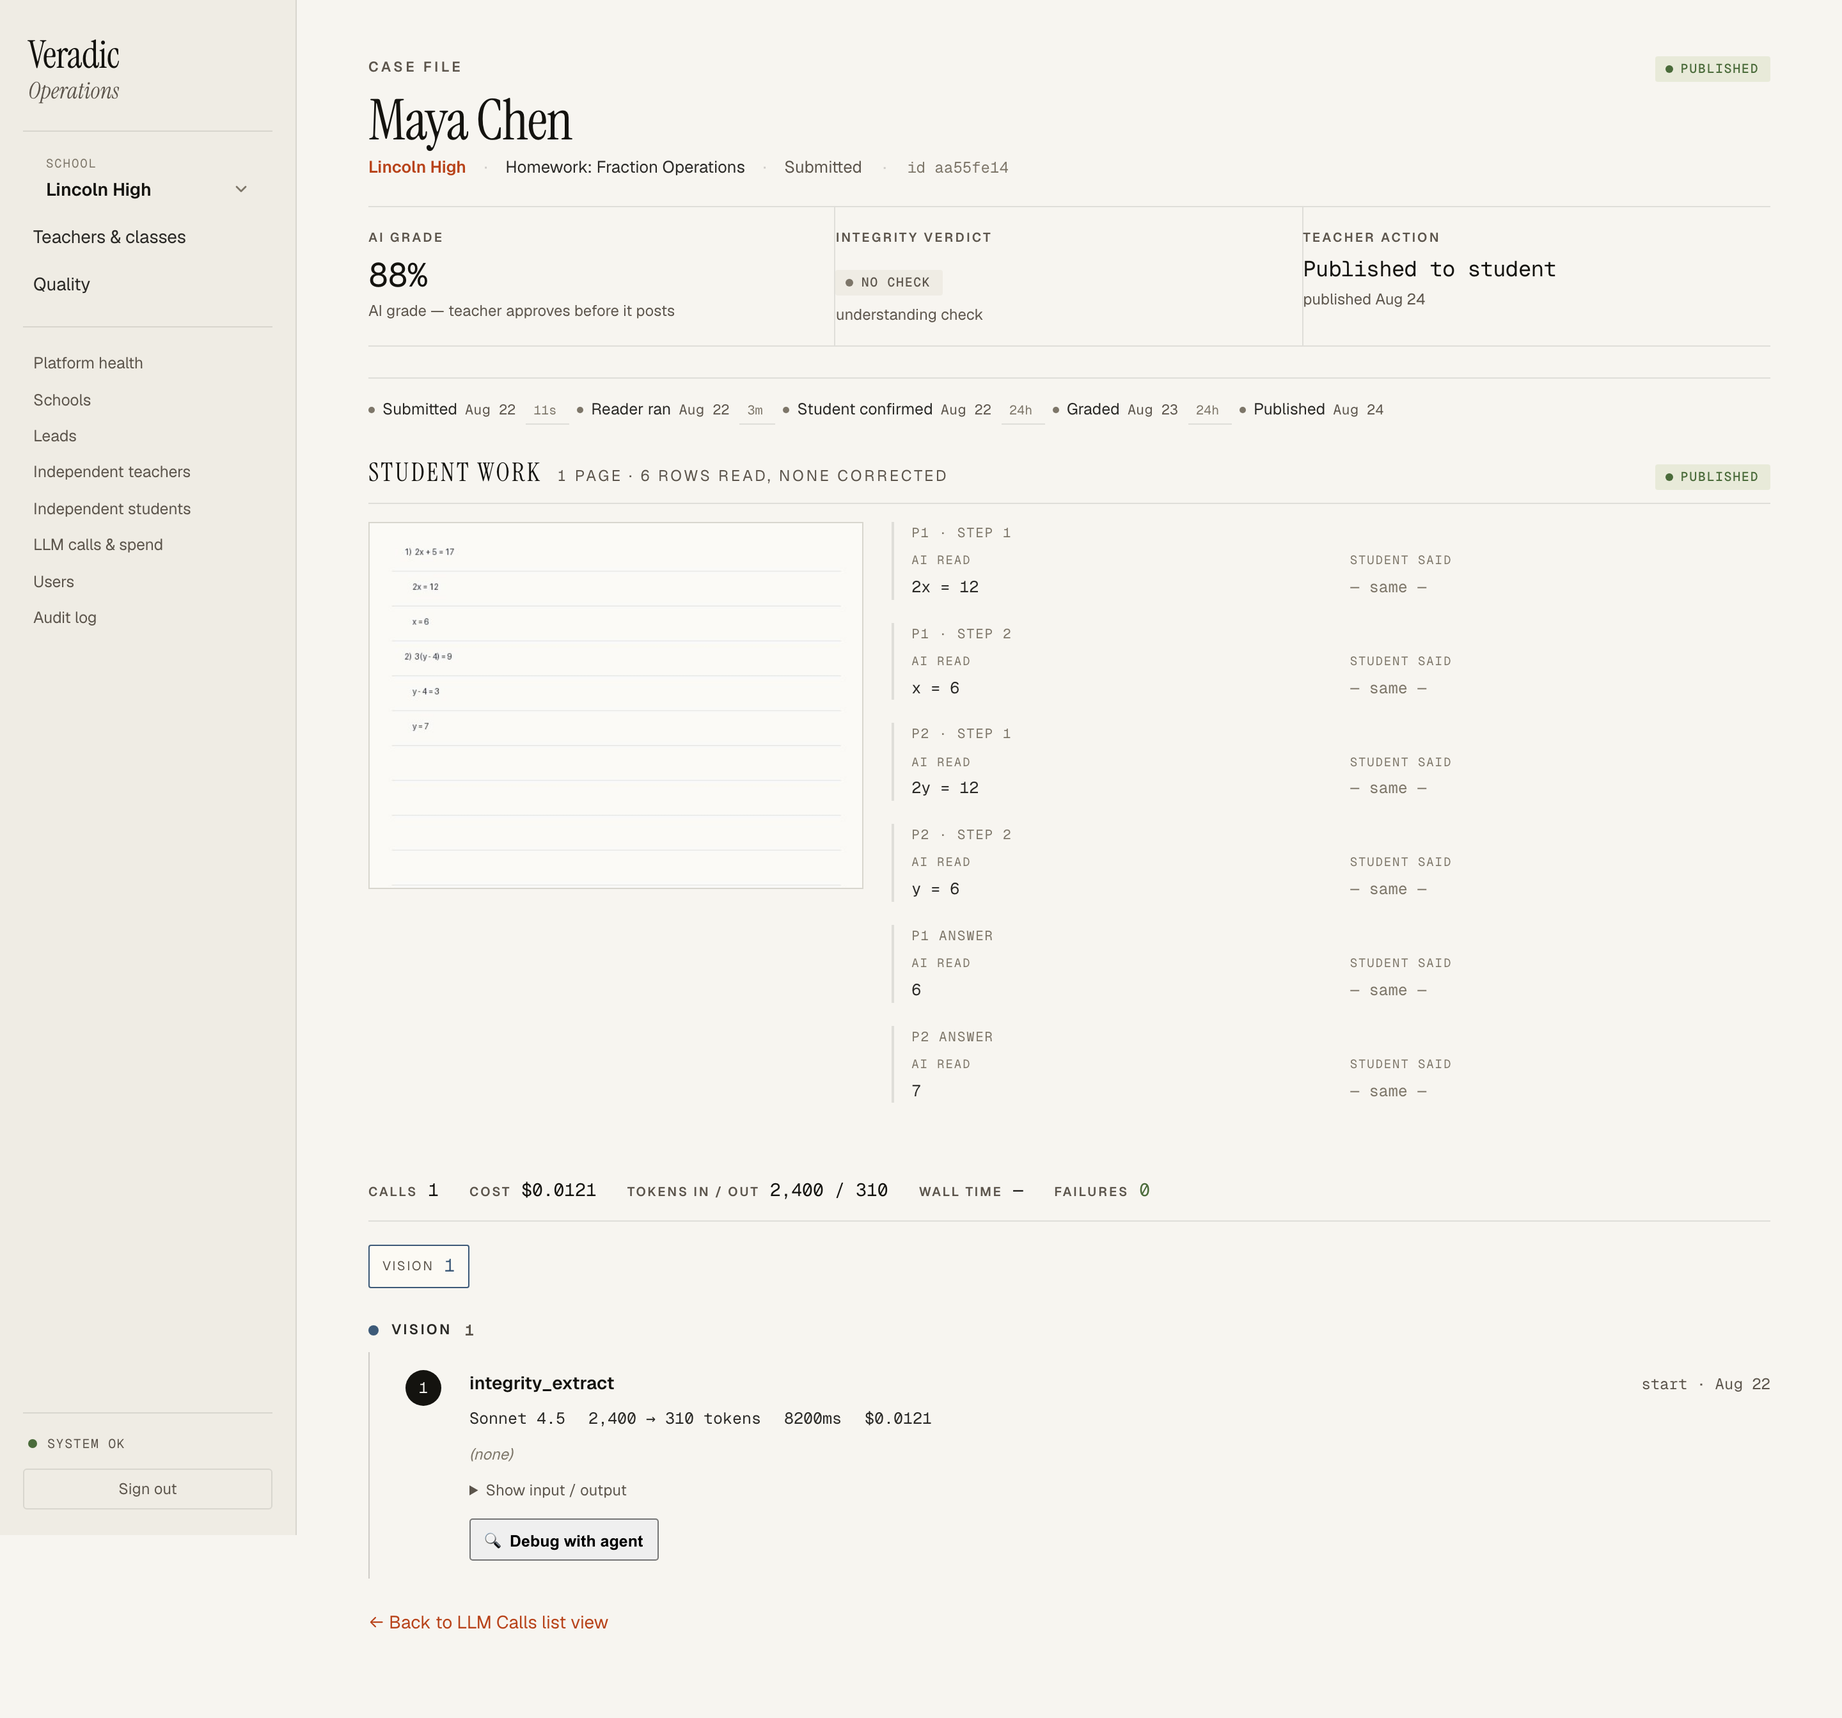
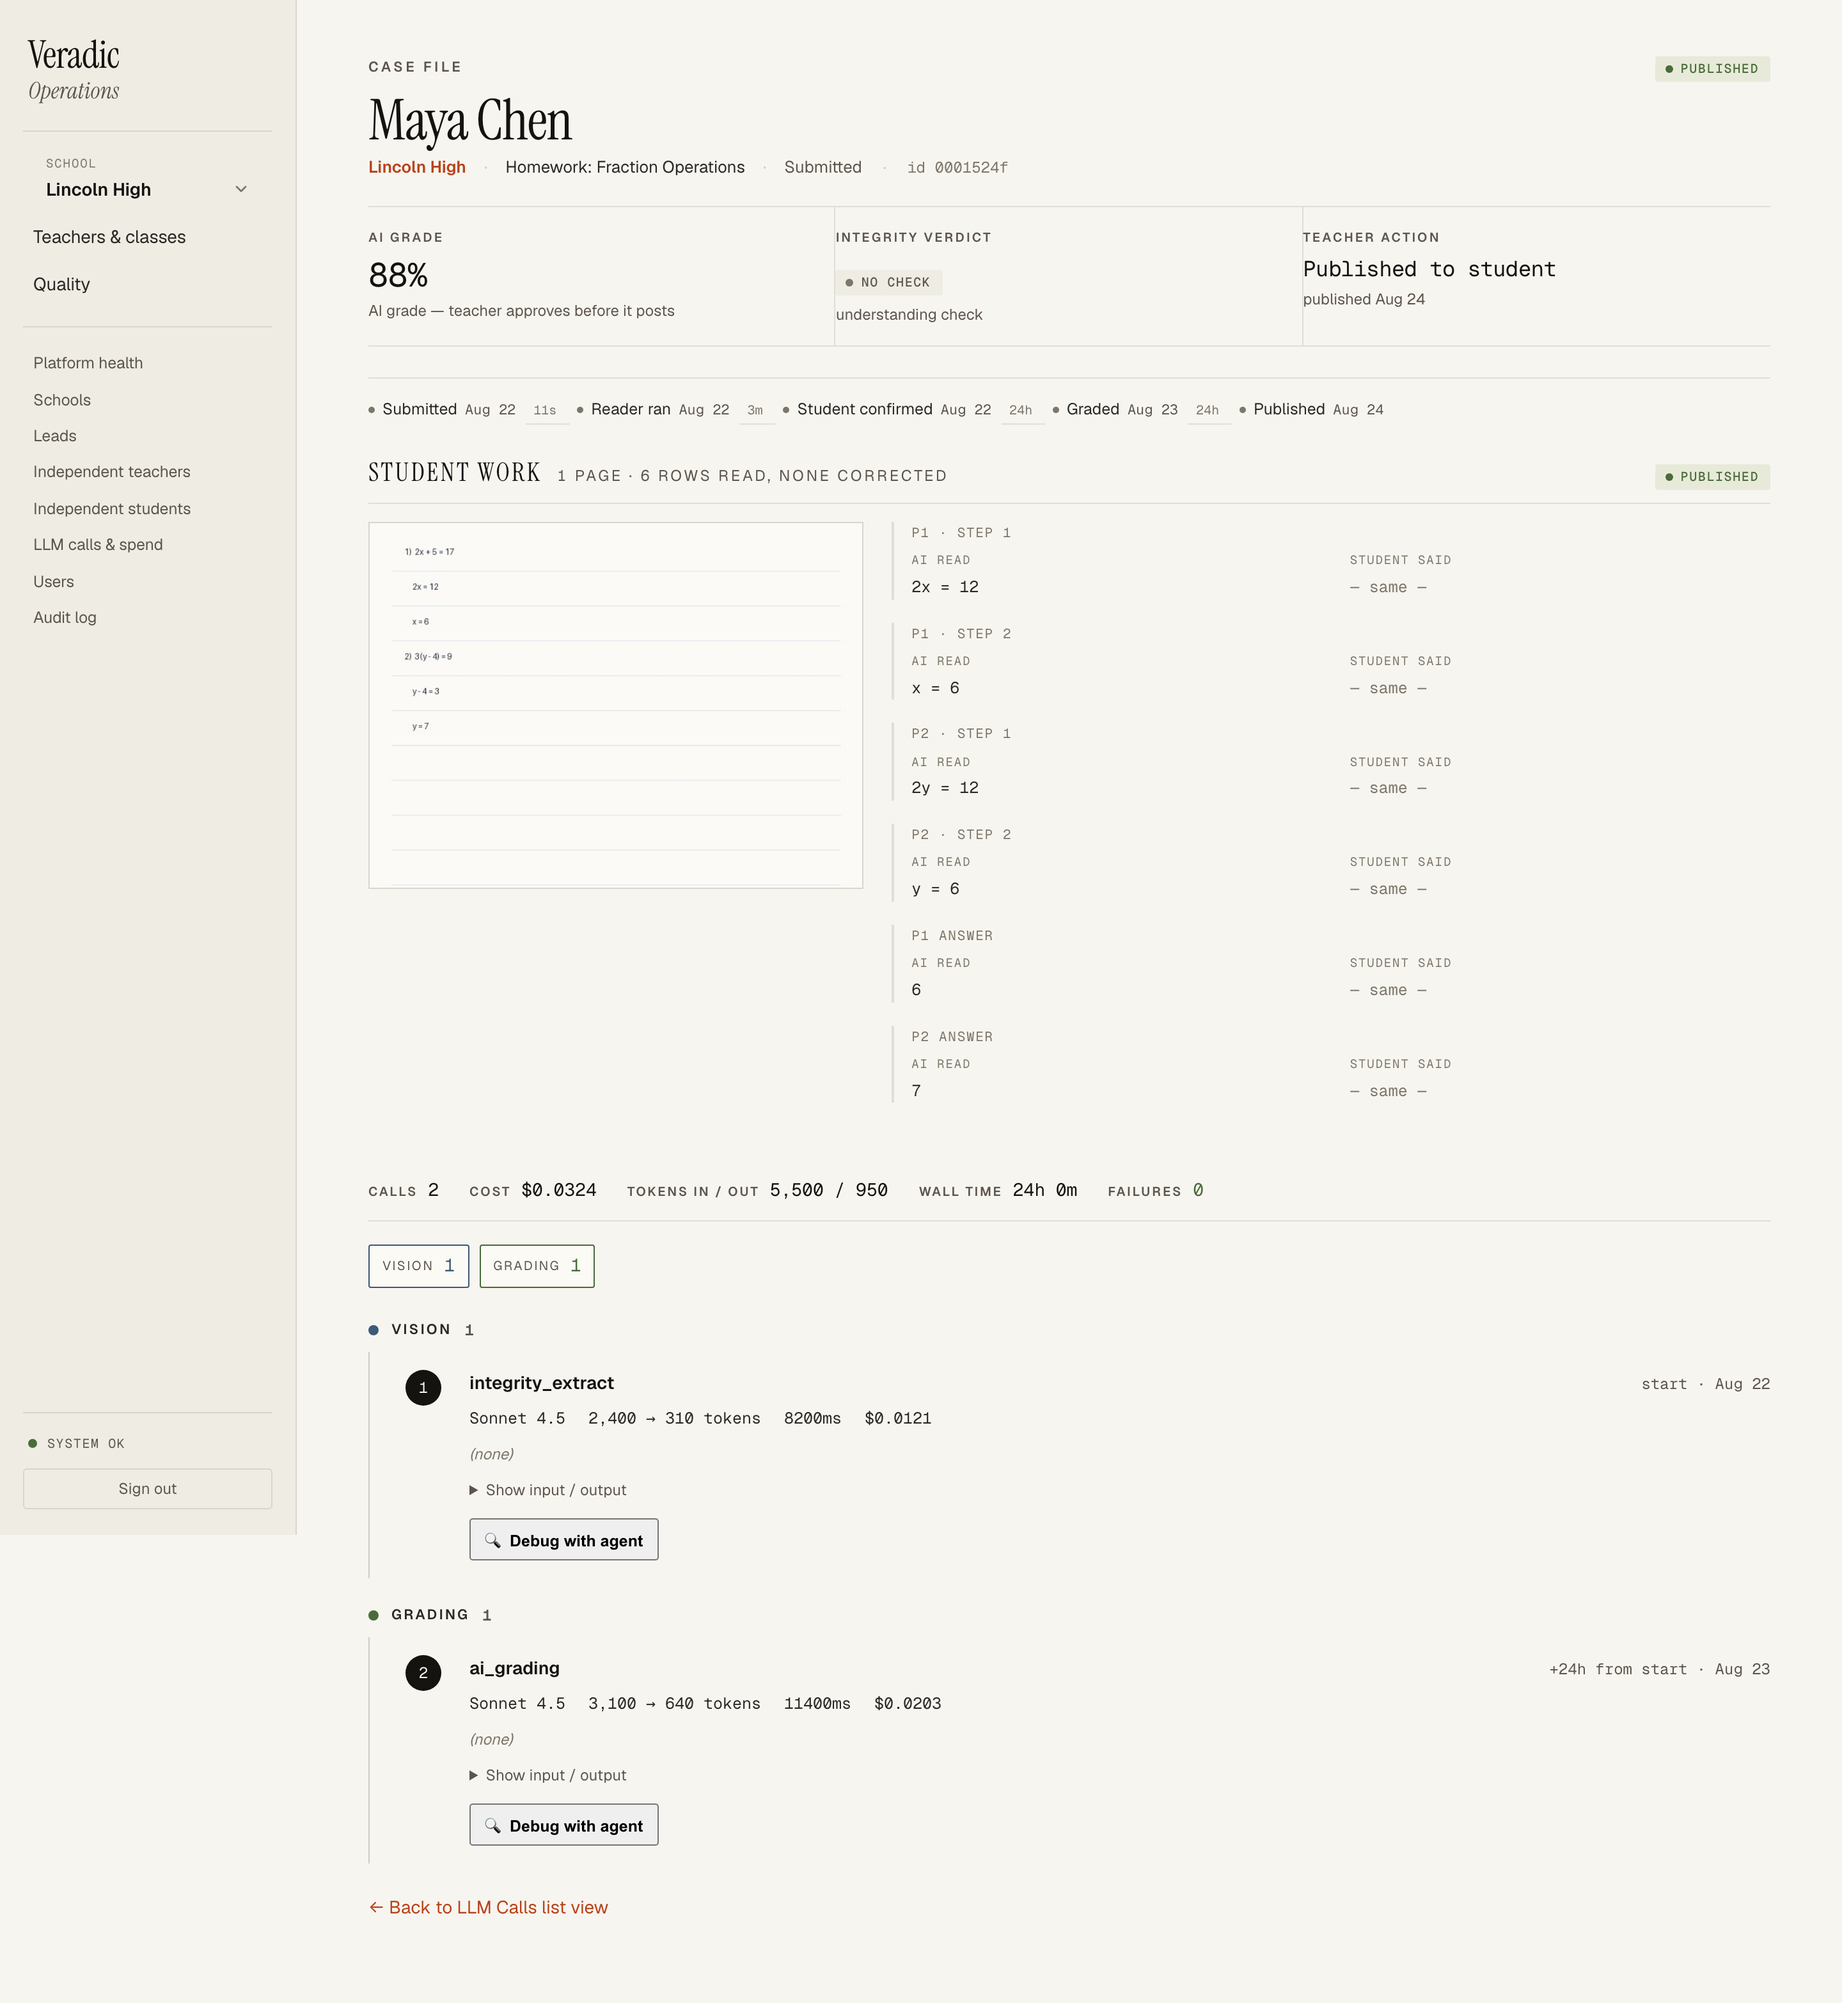
fix: fixture ordering, the grading call, and two formatters it exposed
Round 7 found the same class of defect I claimed to fix last round —
fixture states production cannot reach — twice more.

Three submissions stamped the student's confirm 11 seconds BEFORE the
read they were confirming. I fixed that on one submission last round
and wrote the rule as a prose comment on it, which is exactly how the
other three drifted. The ordering is now derived once
(`read_at`/`ruled_at`) instead of retyped per submission, so it cannot
drift again. The bad order also silently exercised the negative-gap
fallback in the lifecycle strip, a path real data never reaches.

An `ai_score` implies a logged `ai_grading` call for the same reason an
extraction implies a read: `grade_submission_with_ai` logs it with the
submission_id and nothing prunes `llm_calls`. Without it the "healthy"
reference screenshot showed a published, 88%-AI-graded submission whose
entire timeline was one Vision call — no Grading stage, no stage jump
pills, and wall time on its degenerate single-call branch. The
multi-stage timeline that screenshot exists to demonstrate was the one
thing it did not contain.

Fixing the fixture immediately surfaced two real formatter bugs that a
seconds-long fixture could never reach — and real traces DO reach them,
because grading is deliberately deferred to the due date by the durable
queue, so hours or days between the read and the grade is the norm:

- `fmtWallTime` rounded the remainder independently of the quotient, so
[…]

diff --git a/dashboard/src/lib/format.ts b/dashboard/src/lib/format.ts
@@ -36,23 +36,35 @@ export function fmtPercent(n: number, digits = 1): string {
 // Wall-time formatter — handles seconds, minutes, hours so a multi-
 // hour pathological flight-recorder run reads as "3h 12m" not
 // "192m 0s".
+// Rounding the remainder independently of the quotient could carry it
+// to a full unit and print it anyway: 86_390_000ms rendered "23h 60m",
+// and 359_600ms rendered "5m 60s". Round to the smaller unit FIRST,
+// then divide, so the carry lands where it belongs.
 export function fmtWallTime(ms: number): string {
   if (ms < 60_000) return `${(ms / 1000).toFixed(1)}s`;
   if (ms < 3_600_000) {
-    const m = Math.floor(ms / 60_000);
-    const s = Math.round((ms % 60_000) / 1000);
-    return `${m}m ${s}s`;
+    const totalS = Math.round(ms / 1000);
+    return `${Math.floor(totalS / 60)}m ${totalS % 60}s`;
   }
-  const h = Math.floor(ms / 3_600_000);
-  const m = Math.round((ms % 3_600_000) / 60_000);
-  return `${h}h ${m}m`;
+  const totalM = Math.round(ms / 60_000);
+  return `${Math.floor(totalM / 60)}h ${totalM % 60}m`;
 }
 
-// Sub-second elapsed offset — used inside the flight recorder for
-// "+offset from start" timing on each call row.
+// Elapsed offset from the first call — the "+X from start" on each row.
+//
+// This was sub-second only, which was right when a trace was one
+// pipeline burst. It isn't any more: grading is deliberately deferred to
+// the assignment's due date by the durable queue, so the gap between the
+// Vision read and the grading call is routinely hours or days. A
+// day-long offset rendered as "+86389.00s from start" — technically
+// true, unreadable, and the number an operator most wants to grasp at a
+// glance on this page.
 export function fmtRelativeMs(ms: number): string {
   if (ms < 1000) return `${ms.toFixed(0)}ms`;
-  return `${(ms / 1000).toFixed(2)}s`;
+  if (ms < 90_000) return `${(ms / 1000).toFixed(2)}s`;
+  if (ms < 5_400_000) return `${Math.round(ms / 60_000)}m`;
+  if (ms < 172_800_000) return `${Math.round(ms / 3_600_000)}h`;
+  return `${Math.round(ms / 86_400_000)}d`;
 }
 
 // First UUID segment as a compact stable handle — enough to scan

diff --git a/dashboard/src/index.css b/dashboard/src/index.css
@@ -596,10 +596,11 @@ h3 {
 .case-file { margin-bottom: 24px; }
 
 /* Stage first, then the run verdict beside it when it adds something.
-   Wraps rather than squeezing the header on a narrow viewport. */
+   `flex: none` keeps the pills at full width and lets the header's text
+   column absorb the squeeze instead — the h1 wraps and the meta line
+   ellipses, so a truncated pill is never the thing that gives. */
 .case-head-pills {
   display: flex;
-  flex-wrap: wrap;
   justify-content: flex-end;
   gap: 6px;
   flex: none;
@@ -3297,16 +3298,21 @@ table.dt tr:last-child td { border-bottom: none; }
 .funnel-cell-stalled .funnel-label { color: var(--danger); }
 .funnel-cell-stalled .funnel-bar-fill { background: var(--danger); }
 
+/* Seven cells never divide evenly, so the row/column rules are written
+   per breakpoint rather than inherited: at 4-up the first four end a
+   row, at 2-up every even cell does. Carrying the 4-up rules into the
+   2-up block left the third row unseparated and cell 7 with a dangling
+   right border. */
 @media (max-width: 900px) {
   .funnel-strip { grid-template-columns: repeat(4, 1fr); }
-  .funnel-cell:nth-child(4) { border-right: none; }
-  .funnel-cell:nth-child(-n + 3) { border-bottom: 1px solid var(--rule); }
-  .funnel-cell:nth-child(4) { border-bottom: 1px solid var(--rule); }
+  .funnel-cell:nth-child(4n) { border-right: none; }
+  .funnel-cell:nth-child(-n + 4) { border-bottom: 1px solid var(--rule); }
 }
 @media (max-width: 560px) {
   .funnel-strip { grid-template-columns: repeat(2, 1fr); }
   .funnel-cell { border-right: 1px solid var(--rule); }
   .funnel-cell:nth-child(2n) { border-right: none; }
+  .funnel-cell:nth-child(-n + 5) { border-bottom: 1px solid var(--rule); }
 }
 
 @media (prefers-reduced-motion: reduce) {

diff --git a/scripts/seed_student_case_file.py b/scripts/seed_student_case_file.py
@@ -53,6 +53,30 @@ _LOCAL_HOSTS = {"localhost", "127.0.0.1", "::1", "postgres", "db", ""}
 
 NOW = datetime.now(UTC)
 
+# The pipeline's real ordering, expressed once. A submission is uploaded,
+# Vision reads it seconds later, the student rules on that read, and only
+# then can it be graded and published.
+#
+# These exist because writing the rule as a prose comment on ONE seeded
+# submission let the other three drift into stamping a confirm before the
+# read that confirm is about — an order the product cannot produce, which
+# then silently exercised the negative-gap fallback in the lifecycle strip
+# that real data never reaches. Derive the stamps; don't retype them.
+READ_AFTER_SUBMIT = timedelta(seconds=11)
+RULED_AFTER_READ = timedelta(minutes=3)
+
+
+def submitted(days_ago: int) -> datetime:
+    return NOW - timedelta(days=days_ago)
+
+
+def read_at(days_ago: int) -> datetime:
+    return submitted(days_ago) + READ_AFTER_SUBMIT
+
+
+def ruled_at(days_ago: int) -> datetime:
+    return read_at(days_ago) + RULED_AFTER_READ
+
 
 def assert_local_database() -> None:
     """Refuse to run against anything but a local database.
@@ -188,36 +212,31 @@ async def seed() -> dict[str, str]:
         # counting, and nothing downstream will ever fire.
         stuck = sub(await hw("Two-Step Equations"), 6, extraction=read_for())
 
-        # Published — the happy path, for contrast. Confirmed AFTER the
-        # Vision call seeded below, because that is the only order the
-        # product can produce: the confirm screen exists to rule on a
-        # read, so it cannot precede one.
+        # Published — the happy path, for contrast.
         done = sub(
             await hw("Fraction Operations"), 12,
             extraction=read_for(),
-            extraction_confirmed_at=(
-                NOW - timedelta(days=12) + timedelta(minutes=3)
-            ),
+            extraction_confirmed_at=ruled_at(12),
         )
         # Graded, not yet published, and the teacher moved the score.
         graded = sub(
             await hw("Graphing Linear Functions"), 8,
             extraction=read_for(),
-            extraction_confirmed_at=NOW - timedelta(days=8),
+            extraction_confirmed_at=ruled_at(8),
         )
         # Student corrected the read, then confirmed — grading queued.
         repaired = sub(
             await hw("Systems of Equations"), 3,
             extraction=read_for(),
             extraction_edits={"1:2": "x = 8"},
-            extraction_edited_at=NOW - timedelta(days=3),
-            extraction_confirmed_at=NOW - timedelta(days=3),
+            extraction_edited_at=ruled_at(3),
+            extraction_confirmed_at=ruled_at(3),
         )
         # Student rejected the read outright — teacher grades by hand.
         flagged = sub(
             await hw("Word Problems"), 4,
             extraction=read_for(),
-            extraction_flagged_at=NOW - timedelta(days=4),
+            extraction_flagged_at=ruled_at(4),
         )
         # A read was owed and never arrived.
         sub(await hw("Inequalities"), 2)
@@ -268,7 +287,33 @@ async def seed() -> dict[str, str]:
                 input_tokens=2400, output_tokens=310,
                 latency_ms=8200.0, cost_usd=0.0121,
                 success=True, retry_count=0,
-                created_at=NOW - timedelta(days=days) + timedelta(seconds=11),
+                created_at=read_at(days),
+            ))
+
+        # And the grading call behind every ai_score, for the same
+        # reason: `grade_submission_with_ai` logs AI_GRADING with the
+        # submission_id, and nothing prunes `llm_calls` — so a scored
+        # submission with no grading call is another state production
+        # cannot reach. Without these the "healthy" reference screenshot
+        # showed a published, 88%-AI-graded submission whose whole
+        # timeline was a single Vision call: no Grading stage, no stage
+        # jump pills, and wall time falling to its one-call "—" branch.
+        # The multi-stage timeline that trace exists to demonstrate was
+        # the one thing the picture of it did not contain.
+        #
+        # `repaired` gets none on purpose — its grading job is still
+        # queued — and `flagged` gets none because a rejected read never
+        # reaches the grader.
+        for target, graded_days in ((done, 11), (graded, 7)):
+            s.add(LLMCall(
+                user_id=student.id,
+                submission_id=target.id,
+                function=LLMMode.AI_GRADING,
+                model="claude-sonnet-4-5",
+                input_tokens=3100, output_tokens=640,
+                latency_ms=11400.0, cost_usd=0.0203,
+                success=True, retry_count=0,
+                created_at=submitted(graded_days),
             ))
         await s.commit()
 
